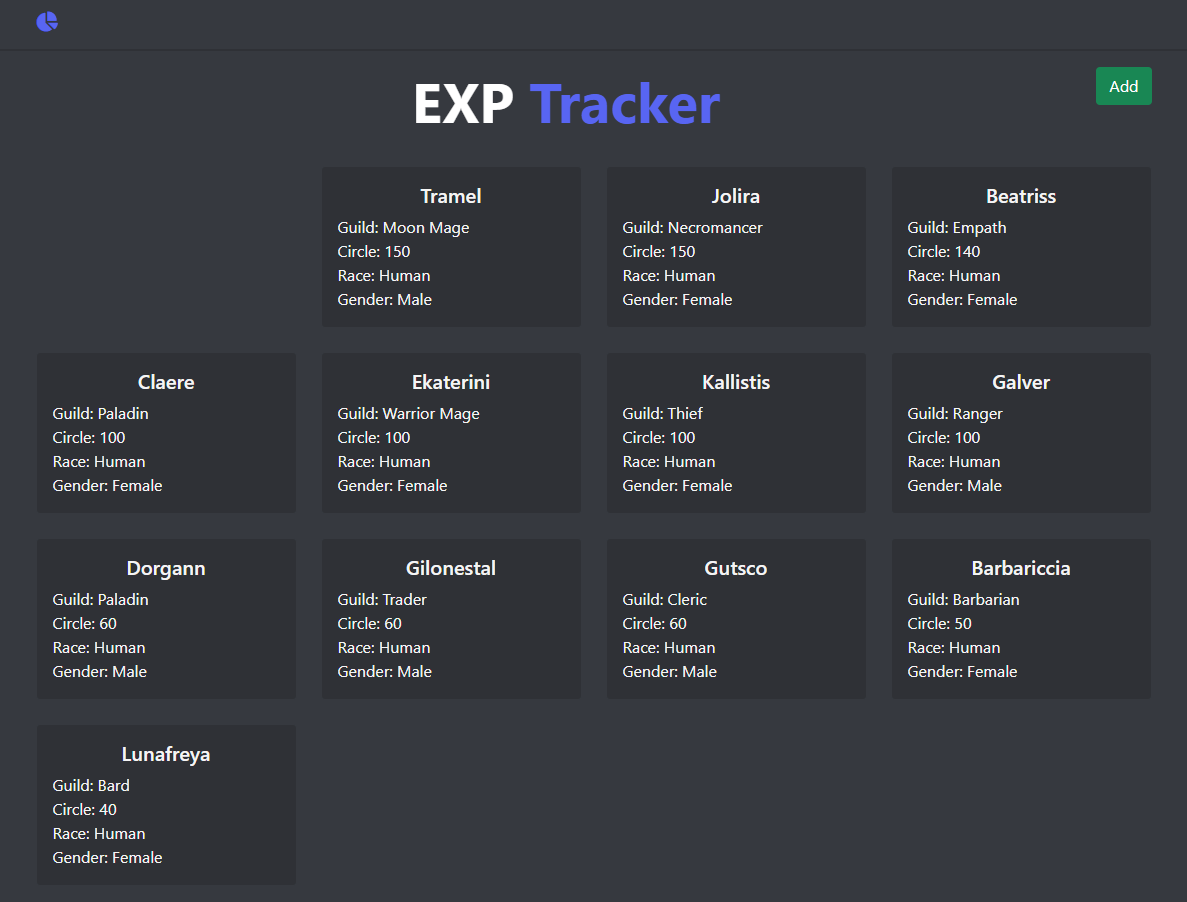
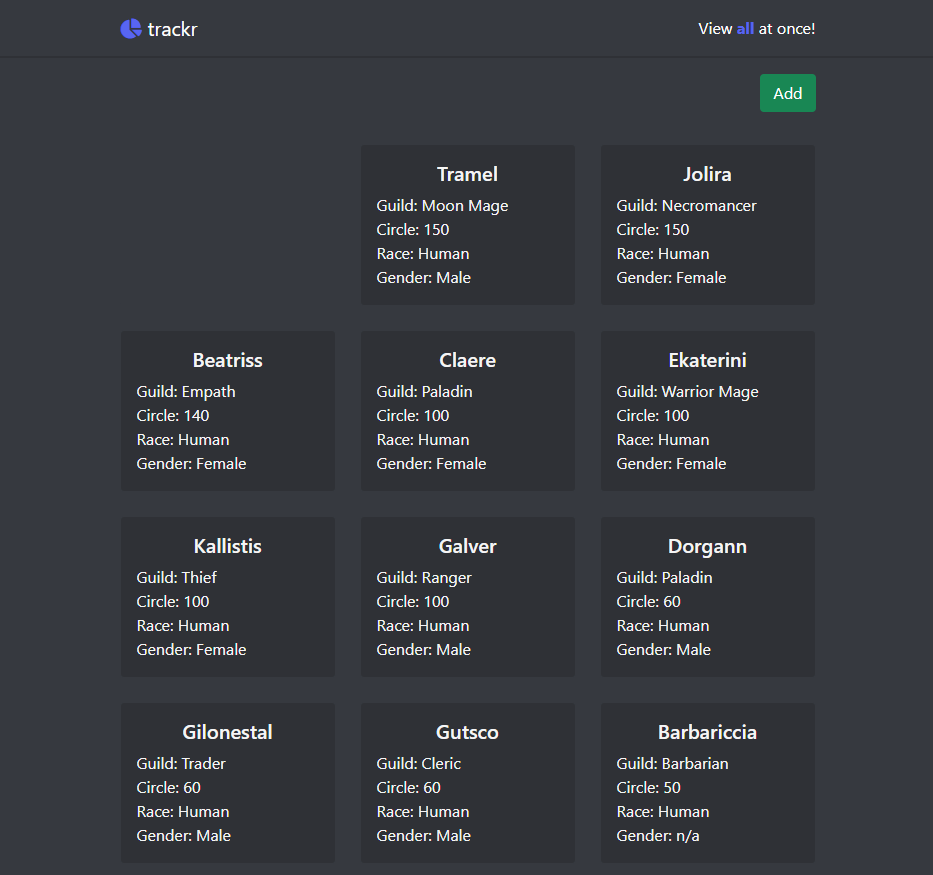
Updated README with new images and name.

diff --git a/Pages/Update.cshtml.cs b/Pages/Update.cshtml.cs
@@ -13,6 +13,8 @@ public class UpdateModel : PageModel
     [BindProperty]
     public Character Character { get; set; }
     [BindProperty]
+    public string Date { get; set; } = DateTime.Now.ToString("yyyy-MM-dd");
+    [BindProperty]
     public string expString { get; set; }
 
     public UpdateModel(ILogger<UpdateModel> logger, StragoDbContext context)
@@ -26,7 +28,7 @@ public class UpdateModel : PageModel
         Character = _context.Characters
                                     .Where(x => x.Name == characterName)
                                     .Include(x => x.Experience)
-                                    .ThenInclude(x => x.Skills)
+                                    .ThenInclude(x => x.Skills.OrderByDescending(y => y.DateLogged))
                                     .FirstOrDefault();
     }
 
@@ -47,7 +49,7 @@ public class UpdateModel : PageModel
                     skill.ExperienceId = experience.Id;
                     skill.Name = exp.Split(":")[0];
                     skill.Rank = Int32.Parse(exp.Split(":")[1]);
-                    skill.DateLogged = DateTime.Now.ToString("yyyy-MM-dd");
+                    skill.DateLogged = Date;
                     skills.Add(skill);
                 }
             }

diff --git a/Pages/Add.cshtml.cs b/Pages/Add.cshtml.cs
@@ -12,6 +12,8 @@ public class AddModel : PageModel
     [BindProperty]
     public Character Character { get; set; }
     [BindProperty]
+    public string Date { get; set; } = DateTime.Now.ToString("yyyy-MM-dd");
+    [BindProperty]
     public string expString { get; set; }
 
     public AddModel(ILogger<AddModel> logger, StragoDbContext context)
@@ -47,7 +49,7 @@ public class AddModel : PageModel
                     skill.ExperienceId = experience.Id;
                     skill.Name = exp.Split(":")[0];
                     skill.Rank = Int32.Parse(exp.Split(":")[1]);
-                    skill.DateLogged = DateTime.Now.ToString("yyyy-MM-dd");
+                    skill.DateLogged = Date;
                     skills.Add(skill);
                 }
             }

diff --git a/Pages/All.cshtml.cs b/Pages/All.cshtml.cs
@@ -7,14 +7,14 @@ using Strago.Data;
 using Strago.Models;
 namespace Strago.Pages;
 
-public class EverybodyModel : PageModel
+public class AllModel : PageModel
 {
-    private readonly ILogger<EverybodyModel> _logger;
+    private readonly ILogger<AllModel> _logger;
     private readonly StragoDbContext _context;
     public List<Character> Characters { get; set; } = new List<Character>();
     public List<MasterGraph> Graphs { get; set; } = new List<MasterGraph>();
 
-    public EverybodyModel(ILogger<EverybodyModel> logger, StragoDbContext context)
+    public AllModel(ILogger<AllModel> logger, StragoDbContext context)
     {
         _logger = logger;
         _context = context;

diff --git a/README.md b/README.md
@@ -1,9 +1,10 @@
-# EXP tracking application
+# trackr
 
 <img src="screenshots/Screenshot 2022-04-20 120620.png" alt="Main Page" title="Main Page">
 <img src="screenshots/Screenshot 2022-04-20 120644.png" alt="Character Graphs" title="Character Graphs">
 <img src="screenshots/Screenshot 2022-04-20 130054.png" alt="Character Update" title="Character Update">
 <img src="screenshots/Screenshot 2022-04-20 130118.png" alt="Character Add" title="Character Add">
+<img src="screenshots/Screenshot 2022-04-20 130119.png" alt="Character All" title="Character All">
 
 If you wanted to use this application to track your own DragonRealms character's experience progressions you'll need to complete a few things first:  
 
